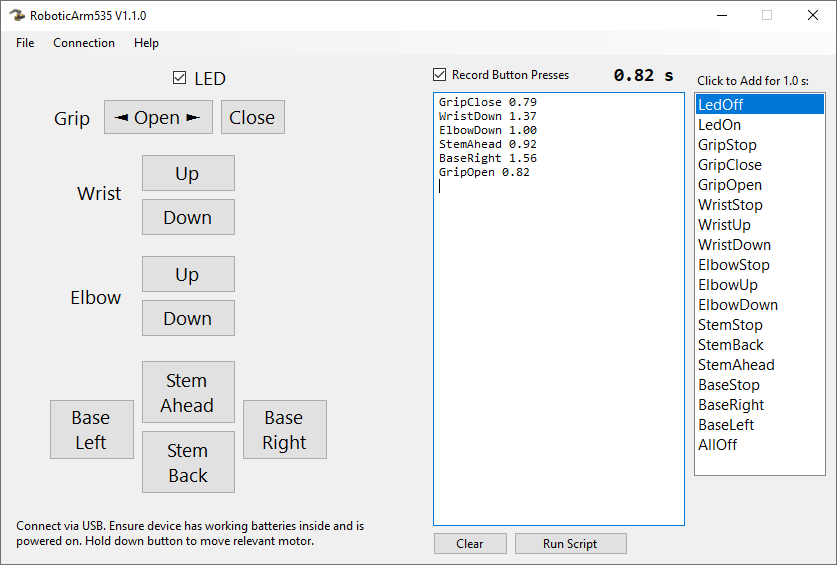
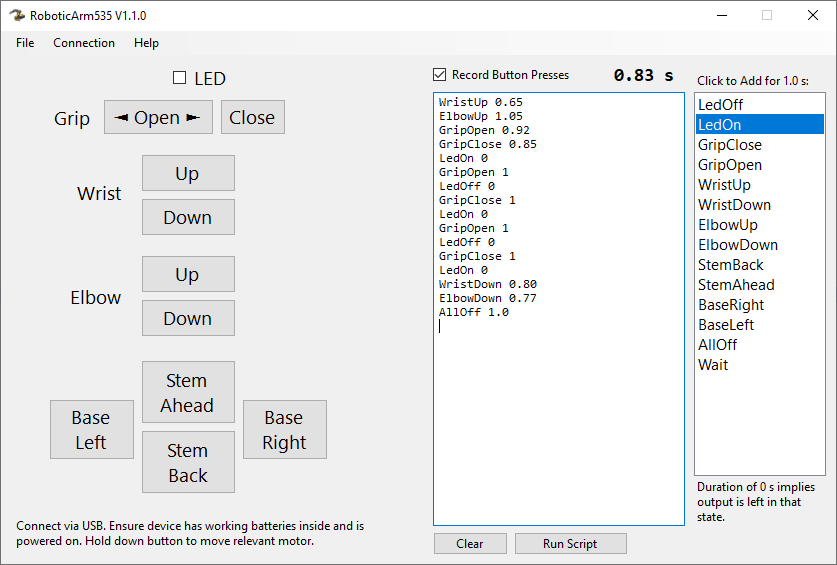
Add opcode for Wait. Remove Opcodes for motor stop.

Changed region(s): [[0.8076, 0.1504, 0.994, 0.8124], [0.5281, 0.1504, 0.6523, 0.5717], [0.8387, 0.8425, 0.963, 0.9327]]

diff --git a/RoboticArm535Library/PacketGenerator.cs b/RoboticArm535Library/PacketGenerator.cs
@@ -15,11 +15,11 @@ namespace RoboticArm535Library
         /// <returns></returns>
         public static byte[] GenSinglePress(OpCode opCode)
         {
-            Out.Led led = Out.Led.Off;
-            Out.Grip grip = Out.Grip.Stop;
-            Out.Wrist wrist = Out.Wrist.Stop;
-            Out.Elbow elbow = Out.Elbow.Stop;
-            Out.Stem stem = Out.Stem.Stop;
+            Out.Led led        = Out.Led.Off;
+            Out.Grip grip      = Out.Grip.Stop;
+            Out.Wrist wrist    = Out.Wrist.Stop;
+            Out.Elbow elbow    = Out.Elbow.Stop;
+            Out.Stem stem      = Out.Stem.Stop;
             Out.Base baseMotor = Out.Base.Stop;
             var packet = new byte[3];
 
@@ -31,37 +31,27 @@ namespace RoboticArm535Library
             else if ((opCode & OpCode.LedOn) != 0)
                 led = Out.Led.On;
 
-            if ((opCode & OpCode.GripStop) != 0)
-                grip = Out.Grip.Stop;
-            else if ((opCode & OpCode.GripClose) != 0)
+            if ((opCode & OpCode.GripClose) != 0)
                 grip = Out.Grip.Close;
             else if ((opCode & OpCode.GripOpen) != 0)
                 grip = Out.Grip.Open;
 
-            if ((opCode & OpCode.WristStop) != 0)
-                wrist = Out.Wrist.Stop;
-            else if ((opCode & OpCode.WristUp) != 0)
+            if ((opCode & OpCode.WristUp) != 0)
                 wrist = Out.Wrist.Up;
             else if ((opCode & OpCode.WristDown) != 0)
                 wrist = Out.Wrist.Down;
 
-            if ((opCode & OpCode.ElbowStop) != 0)
-                elbow = Out.Elbow.Stop;
-            else if ((opCode & OpCode.ElbowUp) != 0)
+            if ((opCode & OpCode.ElbowUp) != 0)
                 elbow = Out.Elbow.Up;
             else if ((opCode & OpCode.ElbowDown) != 0)
                 elbow = Out.Elbow.Down;
 
-            if ((opCode & OpCode.StemStop) != 0)
-                stem = Out.Stem.Stop;
-            else if ((opCode & OpCode.StemBack) != 0)
+            if ((opCode & OpCode.StemBack) != 0)
                 stem = Out.Stem.Back;
             else if ((opCode & OpCode.StemAhead) != 0)
                 stem = Out.Stem.Ahead;
 
-            if ((opCode & OpCode.BaseStop) != 0)
-                baseMotor = Out.Base.Stop;
-            else if ((opCode & OpCode.BaseLeft) != 0)
+            if ((opCode & OpCode.BaseLeft) != 0)
                 baseMotor = Out.Base.Left;
             else if ((opCode & OpCode.BaseRight) != 0)
                 baseMotor = Out.Base.Right;

diff --git a/RoboticArm535/MainForm.Designer.cs b/RoboticArm535/MainForm.Designer.cs
@@ -64,6 +64,7 @@ namespace RoboticArm535
             this.listBox_Commands = new System.Windows.Forms.ListBox();
             this.saveFileDialog_Script = new System.Windows.Forms.SaveFileDialog();
             this.openFileDialog_Script = new System.Windows.Forms.OpenFileDialog();
+            this.label5 = new System.Windows.Forms.Label();
             this.menuStrip1.SuspendLayout();
             this.SuspendLayout();
             // 
@@ -375,12 +376,21 @@ namespace RoboticArm535
             this.openFileDialog_Script.Filter = "RoboticArm535 Scripts|*.535script|All files|*.*";
             this.openFileDialog_Script.Title = "Open Script";
             // 
+            // label5
+            // 
+            this.label5.Location = new System.Drawing.Point(693, 448);
+            this.label5.Name = "label5";
+            this.label5.Size = new System.Drawing.Size(132, 47);
+            this.label5.TabIndex = 19;
+            this.label5.Text = "Duration of 0 s implies output is left in that state.";
+            // 
             // MainForm
             // 
             this.AutoScaleDimensions = new System.Drawing.SizeF(7F, 15F);
             this.AutoScaleMode = System.Windows.Forms.AutoScaleMode.Font;
             this.ClientSize = new System.Drawing.Size(835, 533);
             this.Controls.Add(this.listBox_Commands);
+            this.Controls.Add(this.label5);
             this.Controls.Add(this.label4);
             this.Controls.Add(this.textBox_TimedActions);
             this.Controls.Add(this.label_TimeButtonPressed);
@@ -453,6 +463,7 @@ namespace RoboticArm535
         private System.Windows.Forms.ToolStripMenuItem fileToolStripMenuItem;
         private System.Windows.Forms.ToolStripMenuItem openToolStripMenuItem;
         private System.Windows.Forms.ToolStripMenuItem saveToolStripMenuItem;
+        private System.Windows.Forms.Label label5;
     }
 }
 

diff --git a/RoboticArm535Console/Program.cs b/RoboticArm535Console/Program.cs
@@ -20,13 +20,12 @@ namespace RoboticArm535Console
 
             // demonstrates a simple script controlling multiple outputs simultaneously in different ways
             //sendCommandsByOutputs();
-            //sendCommandsByTimedOpCodeMasks();
-            sendCommandsByScriptInString();
+            sendCommandsByTimedOpCodeMasks();
+            //sendCommandsByScriptInString();
         }
 
         private static void sendCommandsByOutputs()
         {
-            Console.WriteLine("Press any key to abort script");
             usb.Cmd(Out.Led.On, Out.Grip.Stop, Out.Wrist.Stop, Out.Elbow.Stop, Out.Stem.Stop, Out.Base.Stop);
             Thread.Sleep(500);
             usb.Cmd(Out.Led.Off, Out.Grip.Open, Out.Wrist.Up, Out.Elbow.Up, Out.Stem.Stop, Out.Base.Stop);
@@ -67,15 +66,15 @@ WristUp 0.65
 ElbowUp 1.05
 GripOpen 0.92
 GripClose 0.85
-LedOn 0.5
-GripOpen 0.92
-LedOff 0.5
-GripClose 0.94
-LedOn 0.5
-GripOpen 0.92
-LedOff 0.5
-GripClose 0.94
-LedOff 0.5
+LedOn 0
+GripOpen 1
+LedOff 0
+GripClose 1
+LedOn 0
+GripOpen 1
+LedOff 0
+GripClose 1
+LedOn 0
 WristDown 0.80
 ElbowDown 0.77";
 

diff --git a/RoboticArm535Library/OpCode.cs b/RoboticArm535Library/OpCode.cs
@@ -7,21 +7,17 @@ namespace RoboticArm535Library
     {
         LedOff    = 1 << 0,
         LedOn     = 1 << 1,
-        GripStop  = 1 << 2,
-        GripClose = 1 << 3,
-        GripOpen  = 1 << 4,
-        WristStop = 1 << 5,
-        WristUp   = 1 << 6,
-        WristDown = 1 << 7,
-        ElbowStop = 1 << 8,
-        ElbowUp   = 1 << 9,
-        ElbowDown = 1 << 10,
-        StemStop  = 1 << 11,
-        StemBack  = 1 << 12,
-        StemAhead = 1 << 13,
-        BaseStop  = 1 << 14,
-        BaseRight = 1 << 15,
-        BaseLeft  = 1 << 16,
-        AllOff    = 1 << 17,
+        GripClose = 1 << 2,
+        GripOpen  = 1 << 3,
+        WristUp   = 1 << 4,
+        WristDown = 1 << 5,
+        ElbowUp   = 1 << 6,
+        ElbowDown = 1 << 7,
+        StemBack  = 1 << 8,
+        StemAhead = 1 << 9,
+        BaseRight = 1 << 10,
+        BaseLeft  = 1 << 11,
+        AllOff    = 1 << 12,
+        Wait      = 1 << 13
     }
 }

diff --git a/RoboticArm535Library/UsbComms.cs b/RoboticArm535Library/UsbComms.cs
@@ -118,6 +118,12 @@ namespace RoboticArm535Library
             if (usbDevice == null || !usbDevice.IsOpen)
                 throw new Exception("USB device not connected.");
 
+            if (opCode == OpCode.Wait)
+            {
+                Thread.Sleep((int)(durationSecs * 1000));
+                return;
+            }
+
             sendPacket(PacketGenerator.GenSinglePress(opCode));
 
             if (durationSecs == 0)
